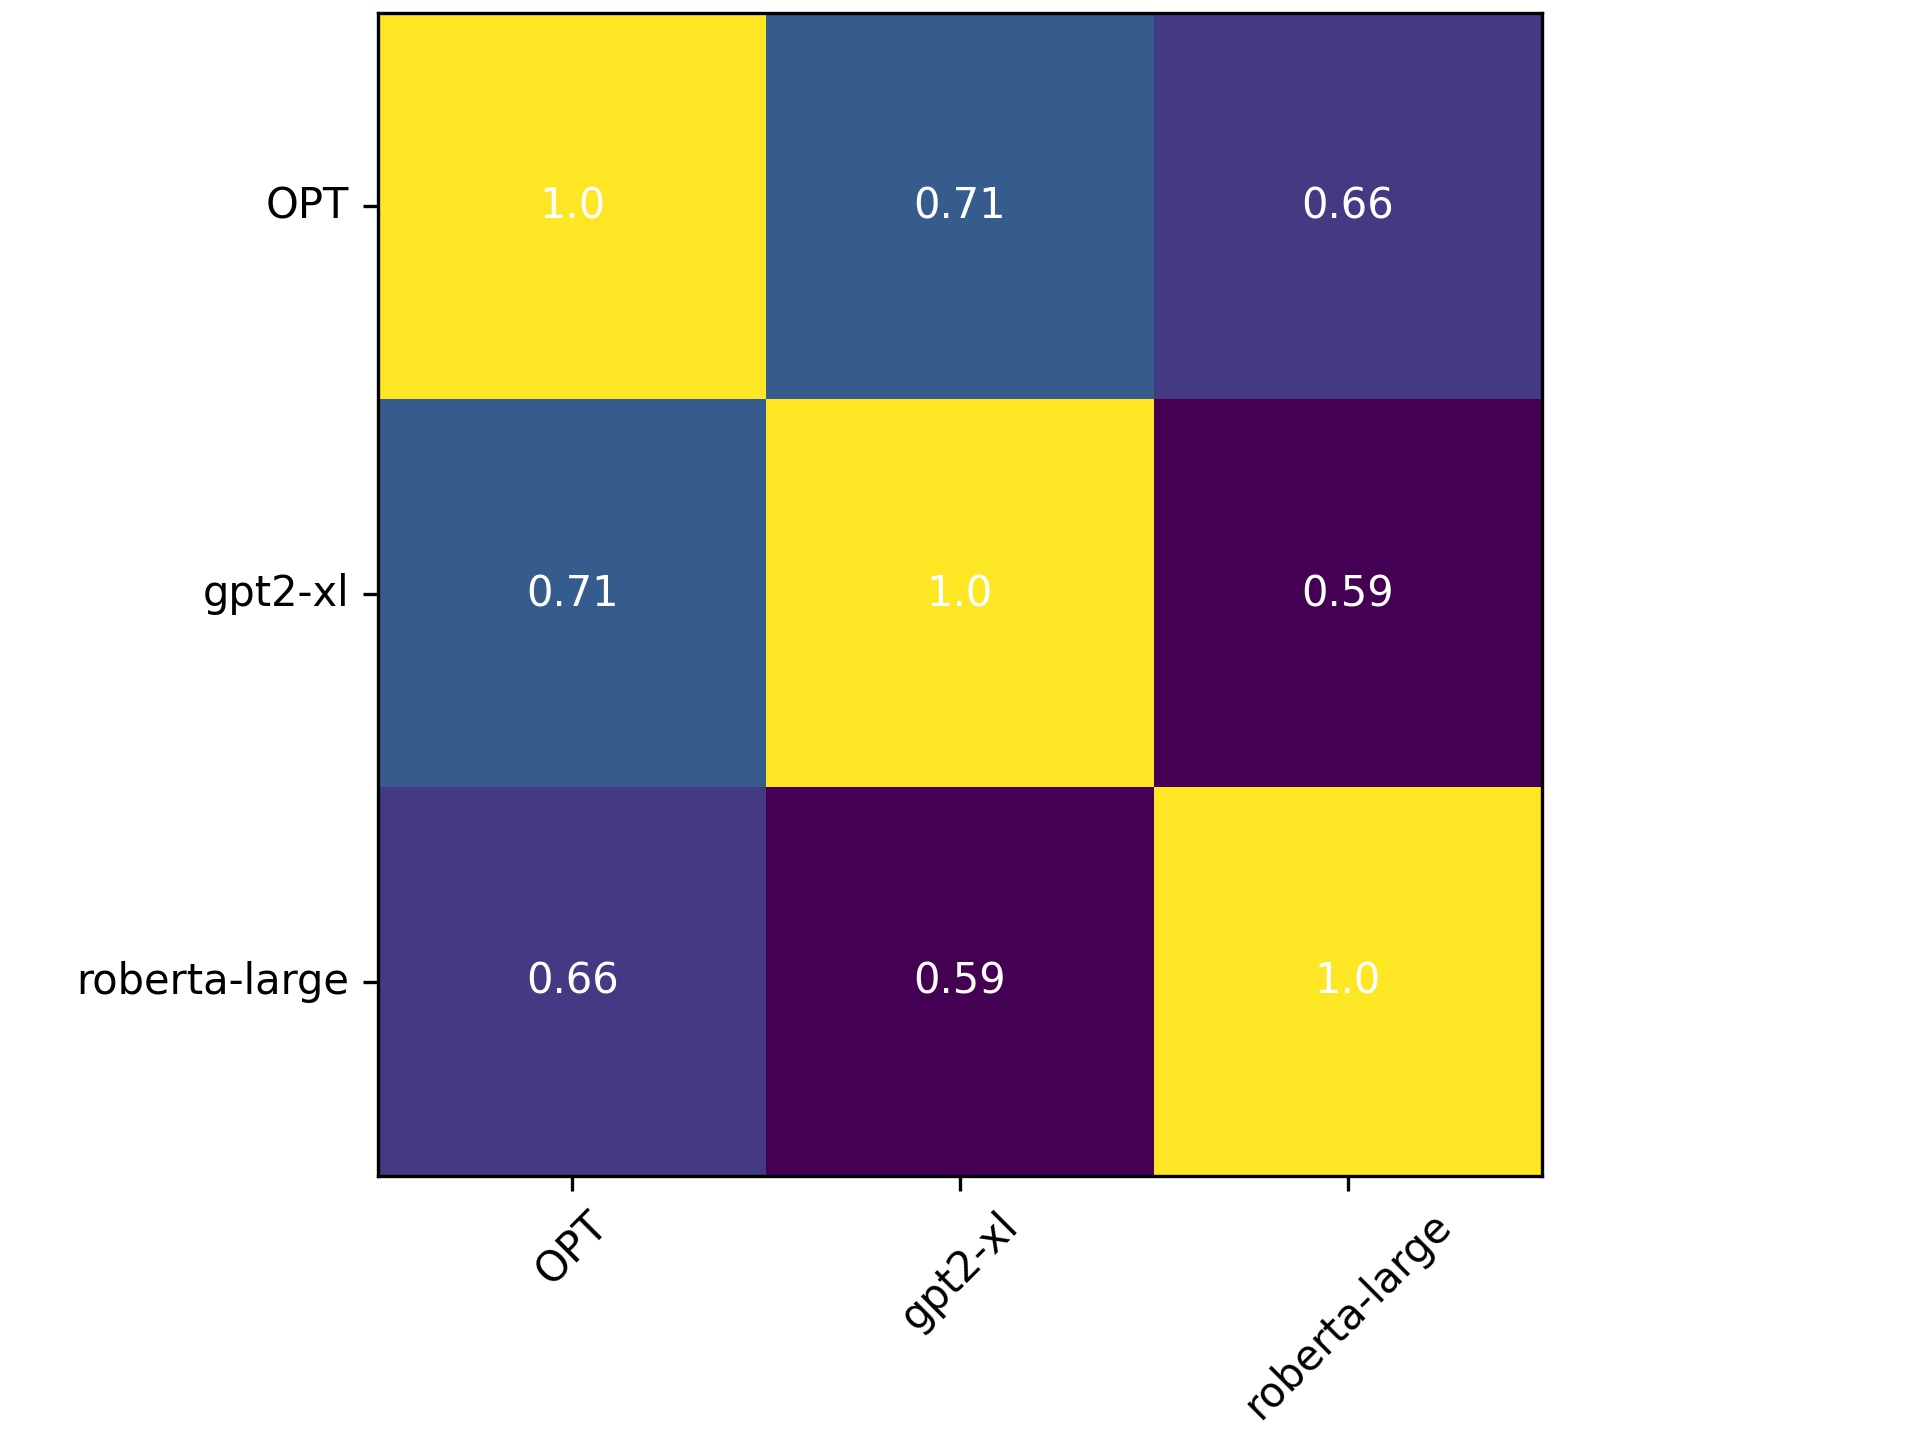
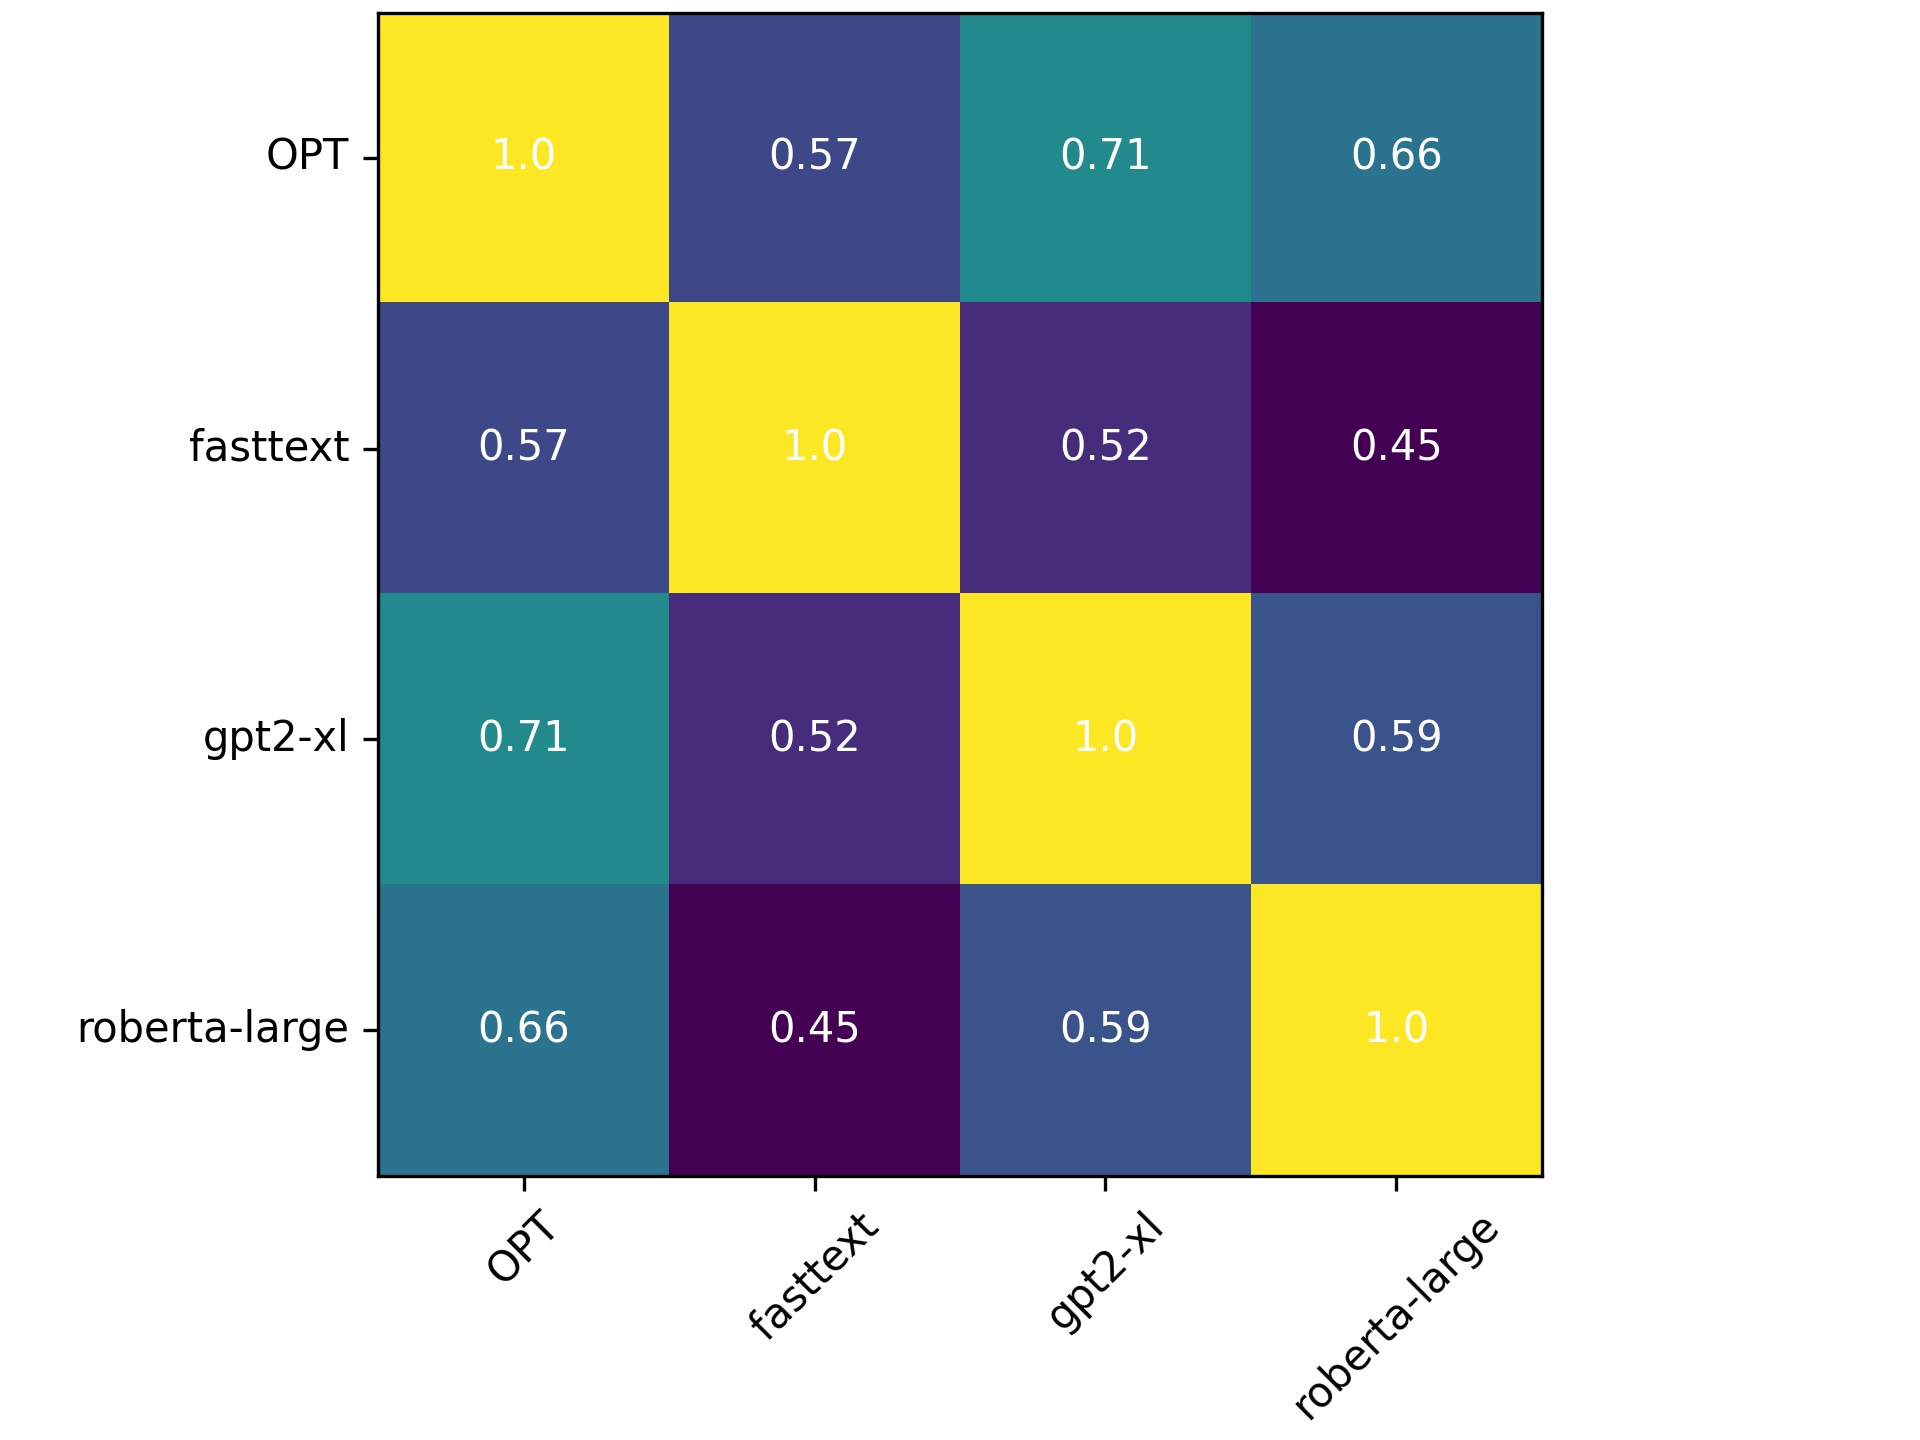
added fasttext

diff --git a/extract_static.py b/extract_static.py
@@ -1,0 +1,33 @@
+import argparse
+import fasttext
+import numpy
+import os
+import re
+
+from tqdm import tqdm
+
+print('loading fasttext...')
+ft = fasttext.load_model(os.path.join('pickles', 'cc.en.300.bin'))
+print('loaded!')
+
+full_stimuli = list()
+
+sentences_folder = 'sentences'
+for f in os.listdir(sentences_folder):
+    full_stimuli.append(f.split('.')[0])
+
+collector = dict()
+for f in full_stimuli:
+    words = f.split()
+    print(words)
+    vec = numpy.average([ft.get_word_vector(w) for w in words], axis=0)
+    assert vec.shape == (300, )
+    collector[f] = vec
+
+with open(os.path.join('vectors', 'fasttext_vectors.tsv'), 'w') as o:
+    o.write('phrase\tfasttext_vector\n')
+    for k, v in collector.items():
+        o.write('{}\t'.format(k))
+        for dim in v:
+            o.write('{}\t'.format(dim))
+        o.write('\n')
